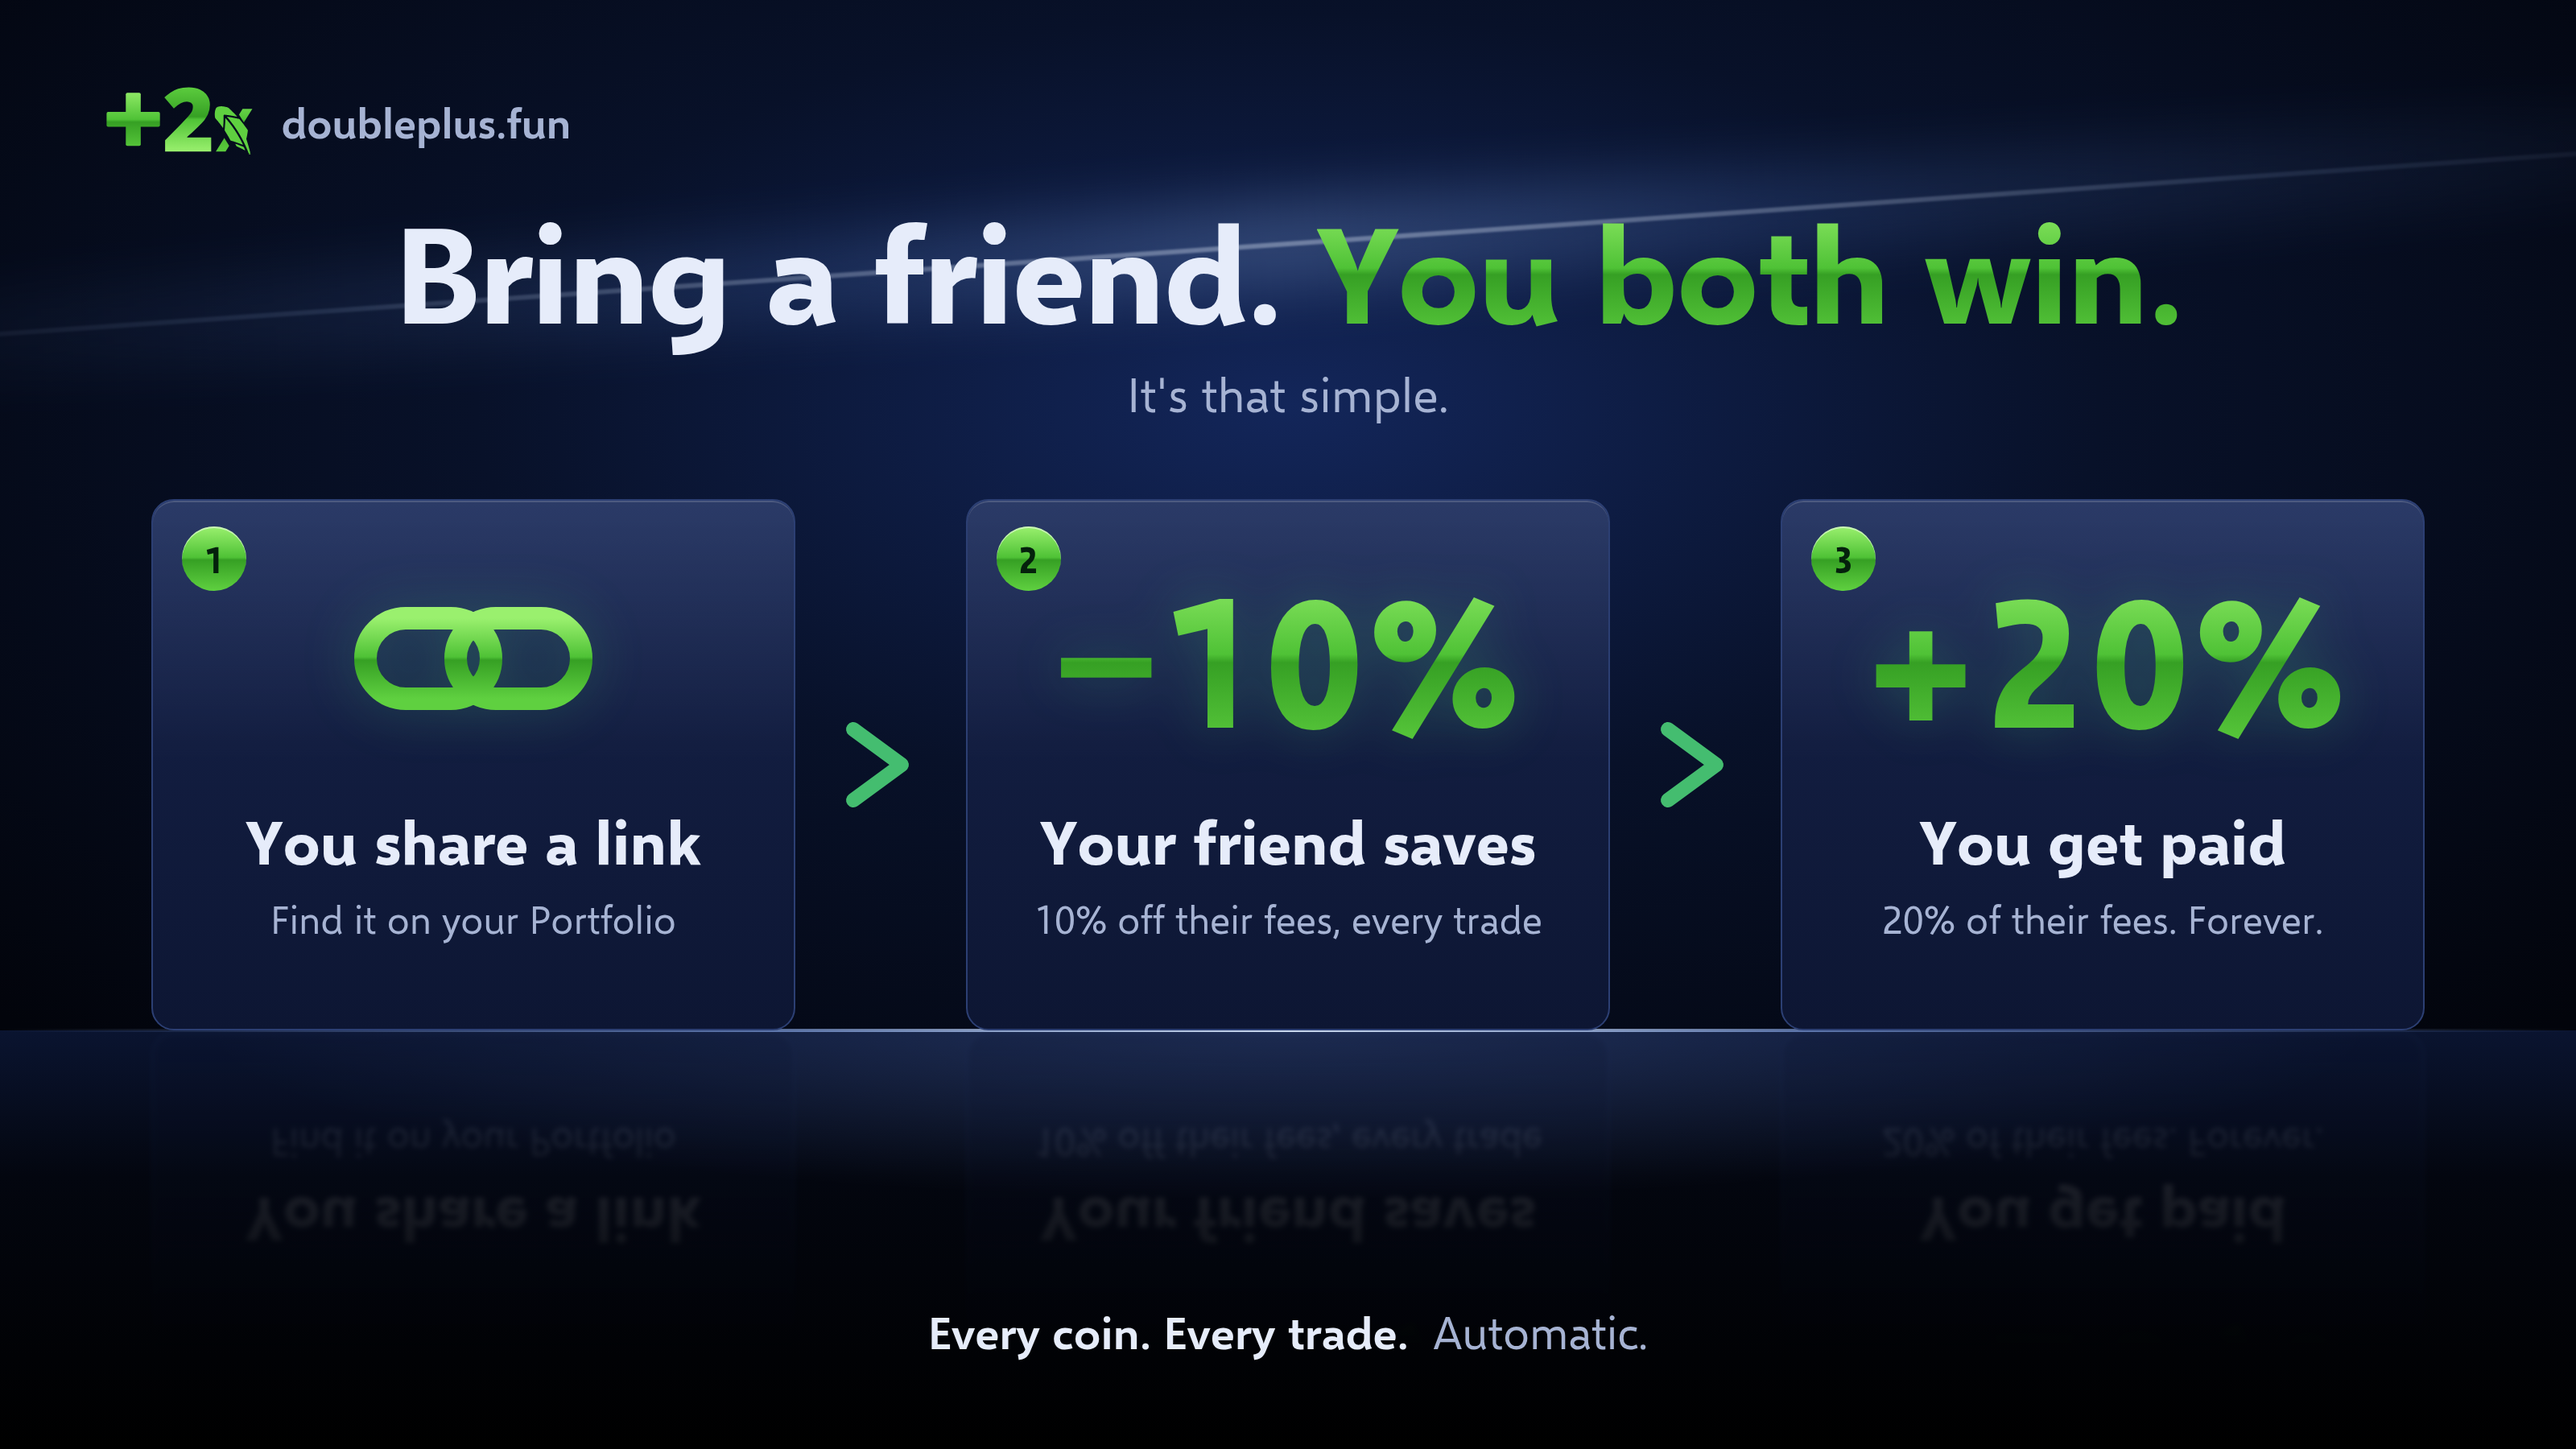
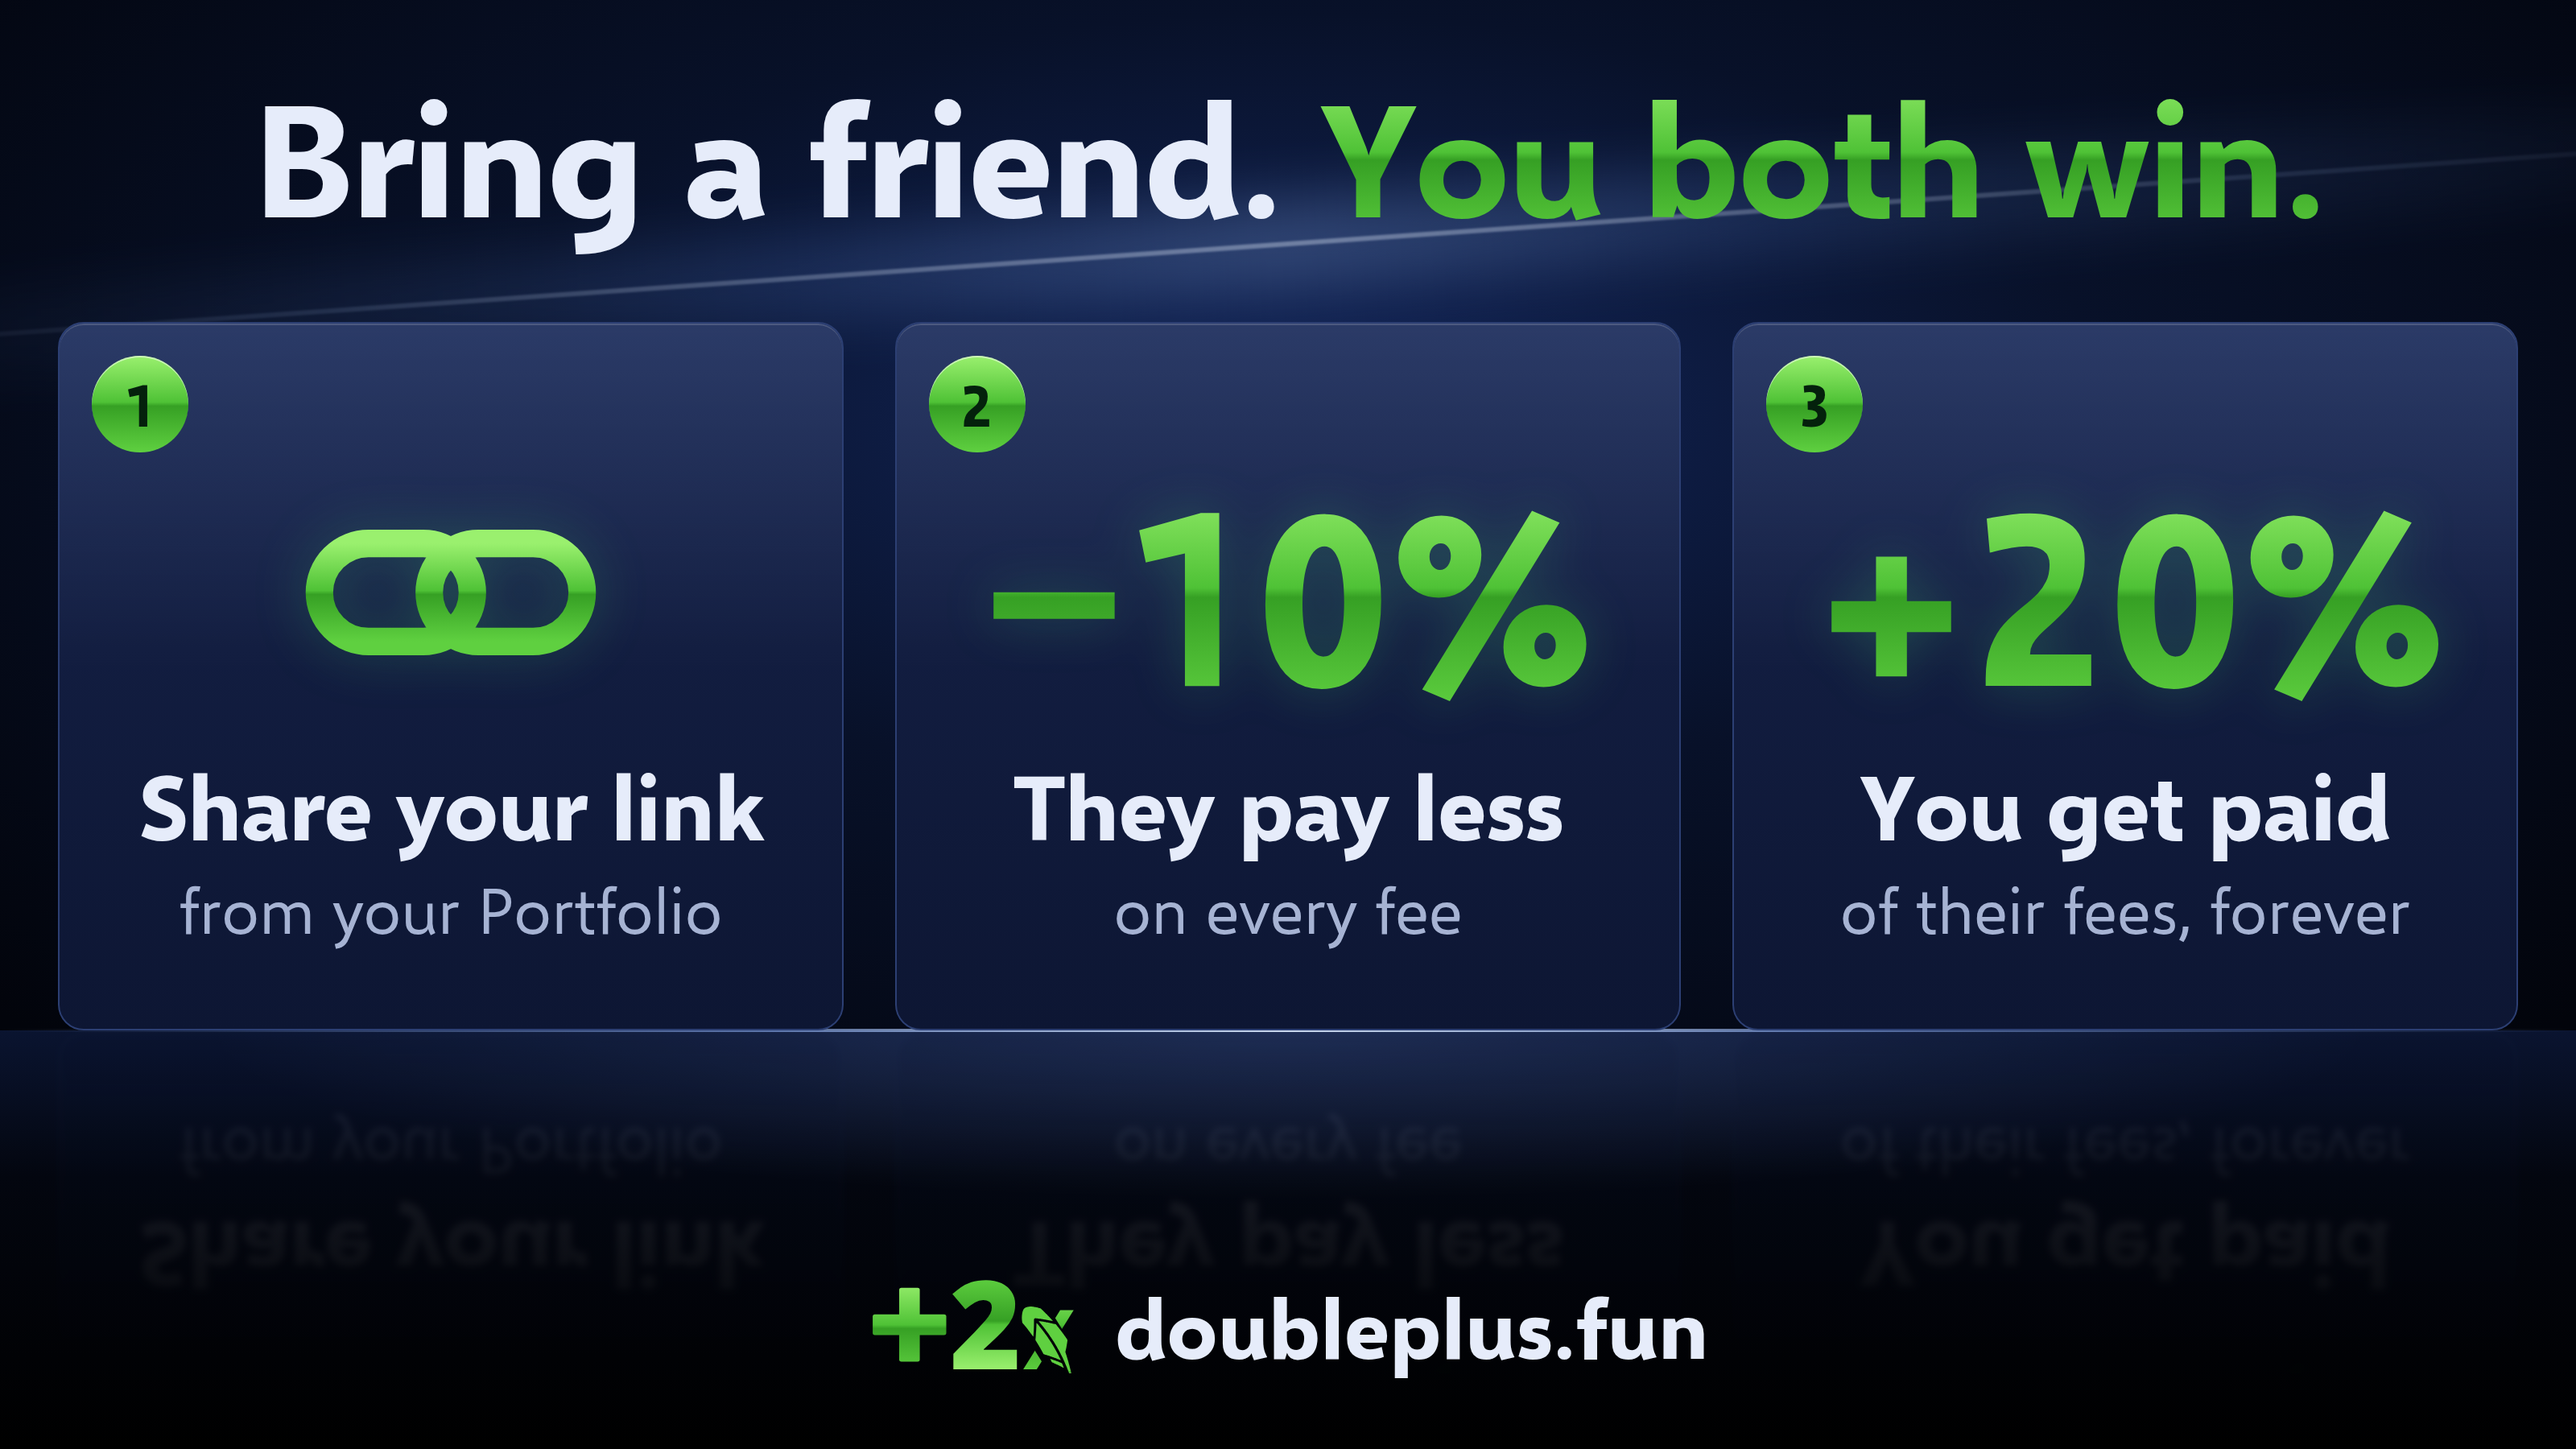
brand(referrals): the card reads at phone-timeline size: one-line headline at 98px, wider panels without arrows, 56px titles and 40px notes in fewer words, the site name as the footer, fainter floor reflections

Changed region(s): [[0.0, 0.0622, 1.0, 0.7156], [0.375, 0.3422, 0.6875, 0.6533], [0.3438, 0.8711, 0.6875, 0.9644]]

diff --git a/brand/referrals/referral-card.html b/brand/referrals/referral-card.html
@@ -27,34 +27,27 @@
   .streak::after { content: ""; position: absolute; inset: -26px 0; filter: blur(18px);
     background: linear-gradient(90deg, transparent, rgb(110 160 255 / .3) 35%, rgb(150 190 255 / .5) 50%, rgb(110 160 255 / .3) 65%, transparent); }
 
-  .brand { position: absolute; left: 64px; top: 52px; display: flex; align-items: center; gap: 16px; }
-  .brand img { height: 46px; }
-  .brand span { font-size: 26px; font-weight: 600; color: var(--dim); }
-
-  h1 { position: absolute; left: 0; right: 0; top: 118px; text-align: center; font-size: 84px; font-weight: 700; letter-spacing: -1px; }
+  h1 { position: absolute; left: 0; right: 0; top: 46px; text-align: center; font-size: 98px; font-weight: 700; letter-spacing: -1.5px; line-height: 1.05; }
   .gel { background: var(--gel); -webkit-background-clip: text; background-clip: text; color: transparent; }
-  .sub { position: absolute; left: 0; right: 0; top: 226px; text-align: center; font-size: 30px; color: var(--dim); }
 
-  .row { position: absolute; left: 0; right: 0; top: 310px; display: flex; justify-content: center; align-items: flex-end; gap: 26px; }
-  .row.mirror { top: 641px; height: 330px; align-items: flex-start; transform: scaleY(-1); opacity: .2; filter: blur(1.5px); pointer-events: none;
-    -webkit-mask-image: linear-gradient(to top, #000 0%, transparent 60%); mask-image: linear-gradient(to top, #000 0%, transparent 60%); }
-  .panel { width: 400px; height: 330px; border-radius: 14px; position: relative; text-align: center; padding: 34px 26px 0;
+  .row { position: absolute; left: 0; right: 0; top: 200px; display: flex; justify-content: center; align-items: flex-end; gap: 32px; }
+  .row.mirror { top: 641px; height: 440px; align-items: flex-start; transform: scaleY(-1); opacity: .13; filter: blur(2px); pointer-events: none;
+    -webkit-mask-image: linear-gradient(to top, #000 0%, transparent 50%); mask-image: linear-gradient(to top, #000 0%, transparent 50%); }
+  .panel { width: 488px; height: 440px; border-radius: 16px; position: relative; text-align: center; padding: 92px 20px 0;
     background: linear-gradient(#1b2c5c 0%, #121d40 46%, #0d1633 100%);
     border: 1px solid var(--line);
     box-shadow: inset 0 1px 0 rgb(255 255 255 / .16); }
-  .panel::before { content: ""; position: absolute; inset: 0 0 50% 0; border-radius: 14px 14px 0 0;
+  .panel::before { content: ""; position: absolute; inset: 0 0 50% 0; border-radius: 16px 16px 0 0;
     background: linear-gradient(rgb(255 255 255 / .07), rgb(255 255 255 / 0)); }
-  .step { position: absolute; left: 18px; top: 16px; width: 40px; height: 40px; border-radius: 50%; display: grid; place-items: center;
-    font-size: 22px; font-weight: 700; color: #04210c; background: var(--gel); box-shadow: inset 0 1px 0 rgb(255 255 255 / .5); }
-  .big { height: 128px; display: grid; place-items: center; font-size: 112px; font-weight: 700; line-height: 1; filter: drop-shadow(0 0 16px rgb(79 220 124 / .22)); }
-  
-  .title { margin-top: 26px; font-size: 38px; font-weight: 700; }
-  .note { margin-top: 10px; font-size: 24px; color: var(--dim); line-height: 1.3; }
-  .arrow { width: 54px; align-self: center; margin-bottom: 0; }
-  .row.mirror .arrow { visibility: hidden; }
+  .step { position: absolute; left: 20px; top: 20px; width: 60px; height: 60px; border-radius: 50%; display: grid; place-items: center;
+    font-size: 36px; font-weight: 700; color: #04210c; background: var(--gel); box-shadow: inset 0 1px 0 rgb(255 255 255 / .5); }
+  .big { height: 150px; display: grid; place-items: center; font-size: 150px; font-weight: 700; line-height: 1; letter-spacing: -3px; filter: drop-shadow(0 0 16px rgb(79 220 124 / .22)); }
+  .title { margin-top: 24px; font-size: 56px; font-weight: 700; letter-spacing: -.5px; }
+  .note { margin-top: 6px; font-size: 40px; color: var(--dim); }
 
-  .foot { position: absolute; left: 0; right: 0; bottom: 56px; text-align: center; font-size: 28px; color: var(--dim); }
-  .foot b { color: var(--text); font-weight: 600; }
+  .foot { position: absolute; left: 0; right: 0; bottom: 44px; display: flex; justify-content: center; align-items: center; gap: 22px; }
+  .foot img { height: 64px; }
+  .foot span { font-size: 52px; font-weight: 700; }
 </style>
 </head>
 <body>
@@ -63,42 +56,37 @@
   <div class="streak"></div>
   <div class="horizon"></div>
 
-  <div class="brand"><img src="../doubleplus-mark.svg" alt=""><span>doubleplus.fun</span></div>
-
   <h1>Bring a friend. <span class="gel">You both win.</span></h1>
-  <p class="sub">It's that simple.</p>
 
   <div class="row" id="row">
     <div class="panel">
       <div class="step">1</div>
       <div class="big">
-        <svg width="150" height="110" viewBox="0 0 150 110" fill="none">
+        <svg width="210" height="134" viewBox="0 0 150 110" fill="none">
           <defs><linearGradient id="g" x1="0" y1="0" x2="0" y2="1"><stop offset="0" stop-color="#9af06e"/><stop offset=".48" stop-color="#4fc236"/><stop offset=".52" stop-color="#36a024"/><stop offset="1" stop-color="#5fd040"/></linearGradient></defs>
           <rect x="8" y="30" width="78" height="50" rx="25" stroke="url(#g)" stroke-width="14"/>
           <rect x="64" y="30" width="78" height="50" rx="25" stroke="url(#g)" stroke-width="14"/>
         </svg>
       </div>
-      <div class="title">You share a link</div>
-      <div class="note">Find it on your Portfolio</div>
+      <div class="title">Share your link</div>
+      <div class="note">from your Portfolio</div>
     </div>
-    <svg class="arrow" viewBox="0 0 54 60"><path d="M10 8 L40 30 L10 52" stroke="#4fdc7c" stroke-width="9" fill="none" stroke-linecap="round" stroke-linejoin="round" opacity=".85"/></svg>
     <div class="panel">
       <div class="step">2</div>
       <div class="big gel">−10%</div>
-      <div class="title">Your friend saves</div>
-      <div class="note">10% off their fees, every trade</div>
+      <div class="title">They pay less</div>
+      <div class="note">on every fee</div>
     </div>
-    <svg class="arrow" viewBox="0 0 54 60"><path d="M10 8 L40 30 L10 52" stroke="#4fdc7c" stroke-width="9" fill="none" stroke-linecap="round" stroke-linejoin="round" opacity=".85"/></svg>
     <div class="panel">
       <div class="step">3</div>
       <div class="big gel">+20%</div>
       <div class="title">You get paid</div>
-      <div class="note">20% of their fees. Forever.</div>
+      <div class="note">of their fees, forever</div>
     </div>
   </div>
   <div class="row mirror" id="mirror"></div>
 
-  <p class="foot"><b>Every coin. Every trade.</b> &nbsp;Automatic.</p>
+  <div class="foot"><img src="../doubleplus-mark.svg" alt=""><span>doubleplus.fun</span></div>
 
   <script>document.getElementById("mirror").innerHTML = document.getElementById("row").innerHTML;</script>
 </body>
